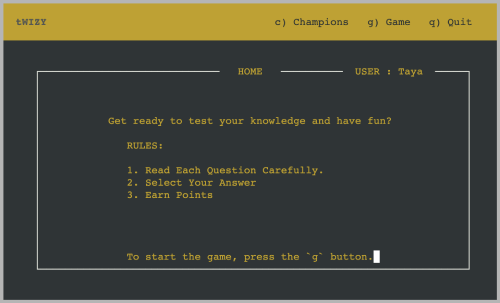
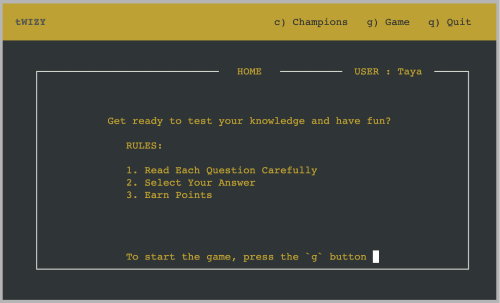
Update README and add few spaces before cursor
- Added F04 and F05 to README
- Added few spaces before cursor to home and
    outcome screens

diff --git a/screens/outcome_screen.py b/screens/outcome_screen.py
@@ -72,14 +72,14 @@ def content_screen_handler(stdscr, navbar, elements, data):
         CenteredText(f"{'* ' * data["tier"]}", 12, color),
         CenteredText(f"Your score: {data["score"]}", 16, color),
         CenteredText(f"Correct answers: {data["correct_answers"]}", 17, color),
-        CenteredText("Do you want to play again? Press `g` button.", 20,
+        CenteredText("Do you want to play again? Press `g` button ", 20,
                      color_yellow),
     ]
 
     # Display the user's place if they made it onto the champions board
     # 14 is line by x axis
     if data["place"] != -1:
-        place_text = f"YOUR PLACE: {data["place"]} on Champions's board"
+        place_text = f"YOUR PLACE: {data["place"]} on Champions's board "
         elements.append(CenteredText(place_text, 14, color))
 
     while True:

diff --git a/screens/home_screen.py b/screens/home_screen.py
@@ -46,7 +46,7 @@ def home_screen_handler(stdscr):
              layout.MAIN_TEXT_MARGING_X, color),
         Text("2. Select Your Answer", 14, layout.MAIN_TEXT_MARGING_X, color),
         Text("3. Earn Points", 15, layout.MAIN_TEXT_MARGING_X, color),
-        CenteredText("To start the game, press the `g` button.", 20, color),
+        CenteredText("To start the game, press the `g` button ", 20, color),
     ]
 
     while True:

diff --git a/screens/login_screen.py b/screens/login_screen.py
@@ -29,7 +29,7 @@ def login_screen_handler(stdscr):
         Text("Enter your name to start.", 13, layout.FRAME_PADDING_LEFT,
              color),
         CenteredText("You can find navigation hints in the navbar on every "
-                     "screen.", 22, color),
+                     "screen", 22, color),
     ]
 
     # Add the logo lines as text elements, start from 9th line

diff --git a/screens/champions_screen.py b/screens/champions_screen.py
@@ -49,7 +49,7 @@ def content_screen_handler(stdscr, navbar, elements, data):
                                   gap_filler)
             score_str = str(score).rjust(len(score_header))
             stdscr.addstr(start_y + 2 + i, start_x,
-                          f"{name_str}{score_str}")
+                          f"{name_str}{score_str} ")
 
         stdscr.refresh()
 

diff --git a/README.md b/README.md
@@ -119,7 +119,33 @@ From the Home screen, the player has three navigation options:
 
 ### F04 Game screen
 
+Finally, the user reaches the game itself. Navigating through the answer options is intuitive,
+using the up and down buttons, and the enter button to select. Throughout the game, a helpful
+navigation hint is displayed at the bottom of the screen.
+
+<img src="readme/game_screen.png" width="400" alt="tWIZY game screen image"/>
+
+From the Game screen, the player has two navigation options:
+
+1. Press `a` to exit the current game and return to the Home screen.
+2. And if the user is ready to leave, press `q` to exit the tWIZY game.
+
 ### F05 Outcome screen
+
+After completing the quiz in tWIZY, the player is taken to the Outcome screen.
+This screen shows the final score and tier based on performance.
+If the user achieves a high enough score, they will earn a place on the champions board. \
+This screen provides a clear and satisfying summary of performance and encourages the player to
+aim for higher scores and better tiers in future games.
+
+<img src="readme/outcome_screen.png" width="400" alt="tWIZY outcome screen image"/>
+
+On Outcome screen the user has four navigation options:
+
+1. Press `h` to return to the Home screen.
+2. Press `g` to start a new quiz and try to improve a score.
+3. Press `c` to view the current Champions board.
+4. Press `q` to quit the tWIZY application.
 
 ### F06 Champions screen
 
